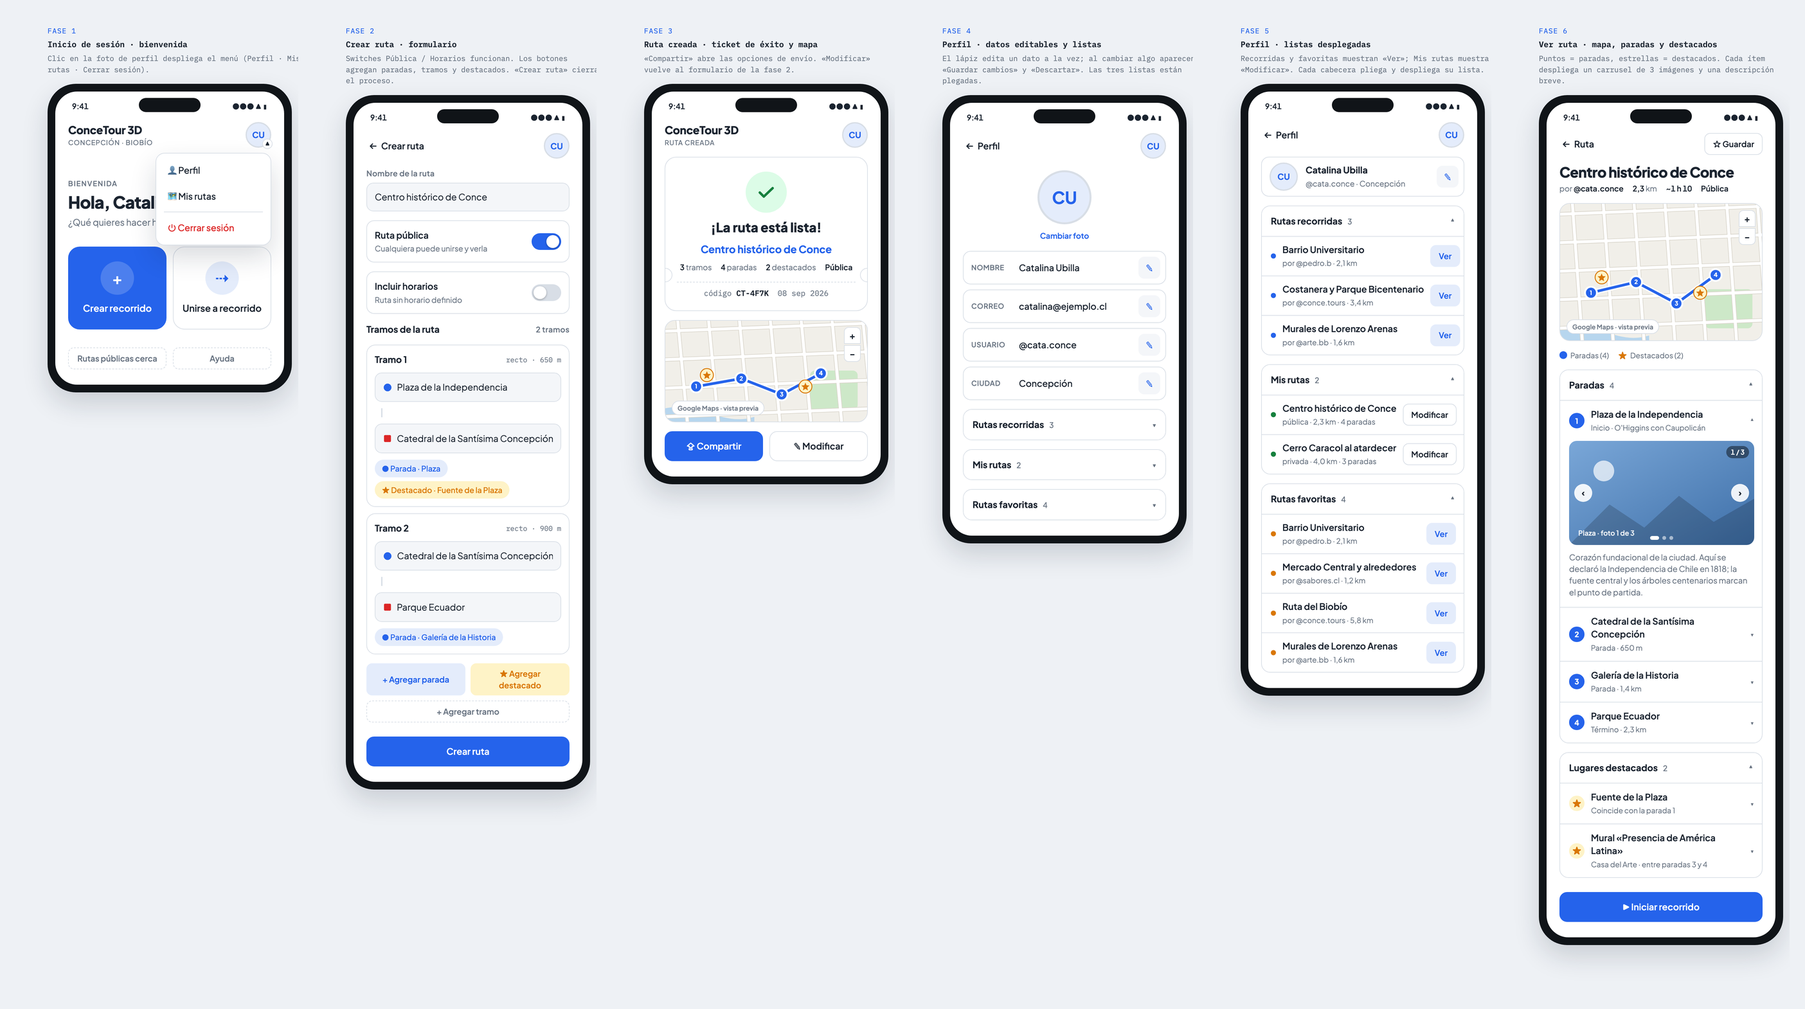
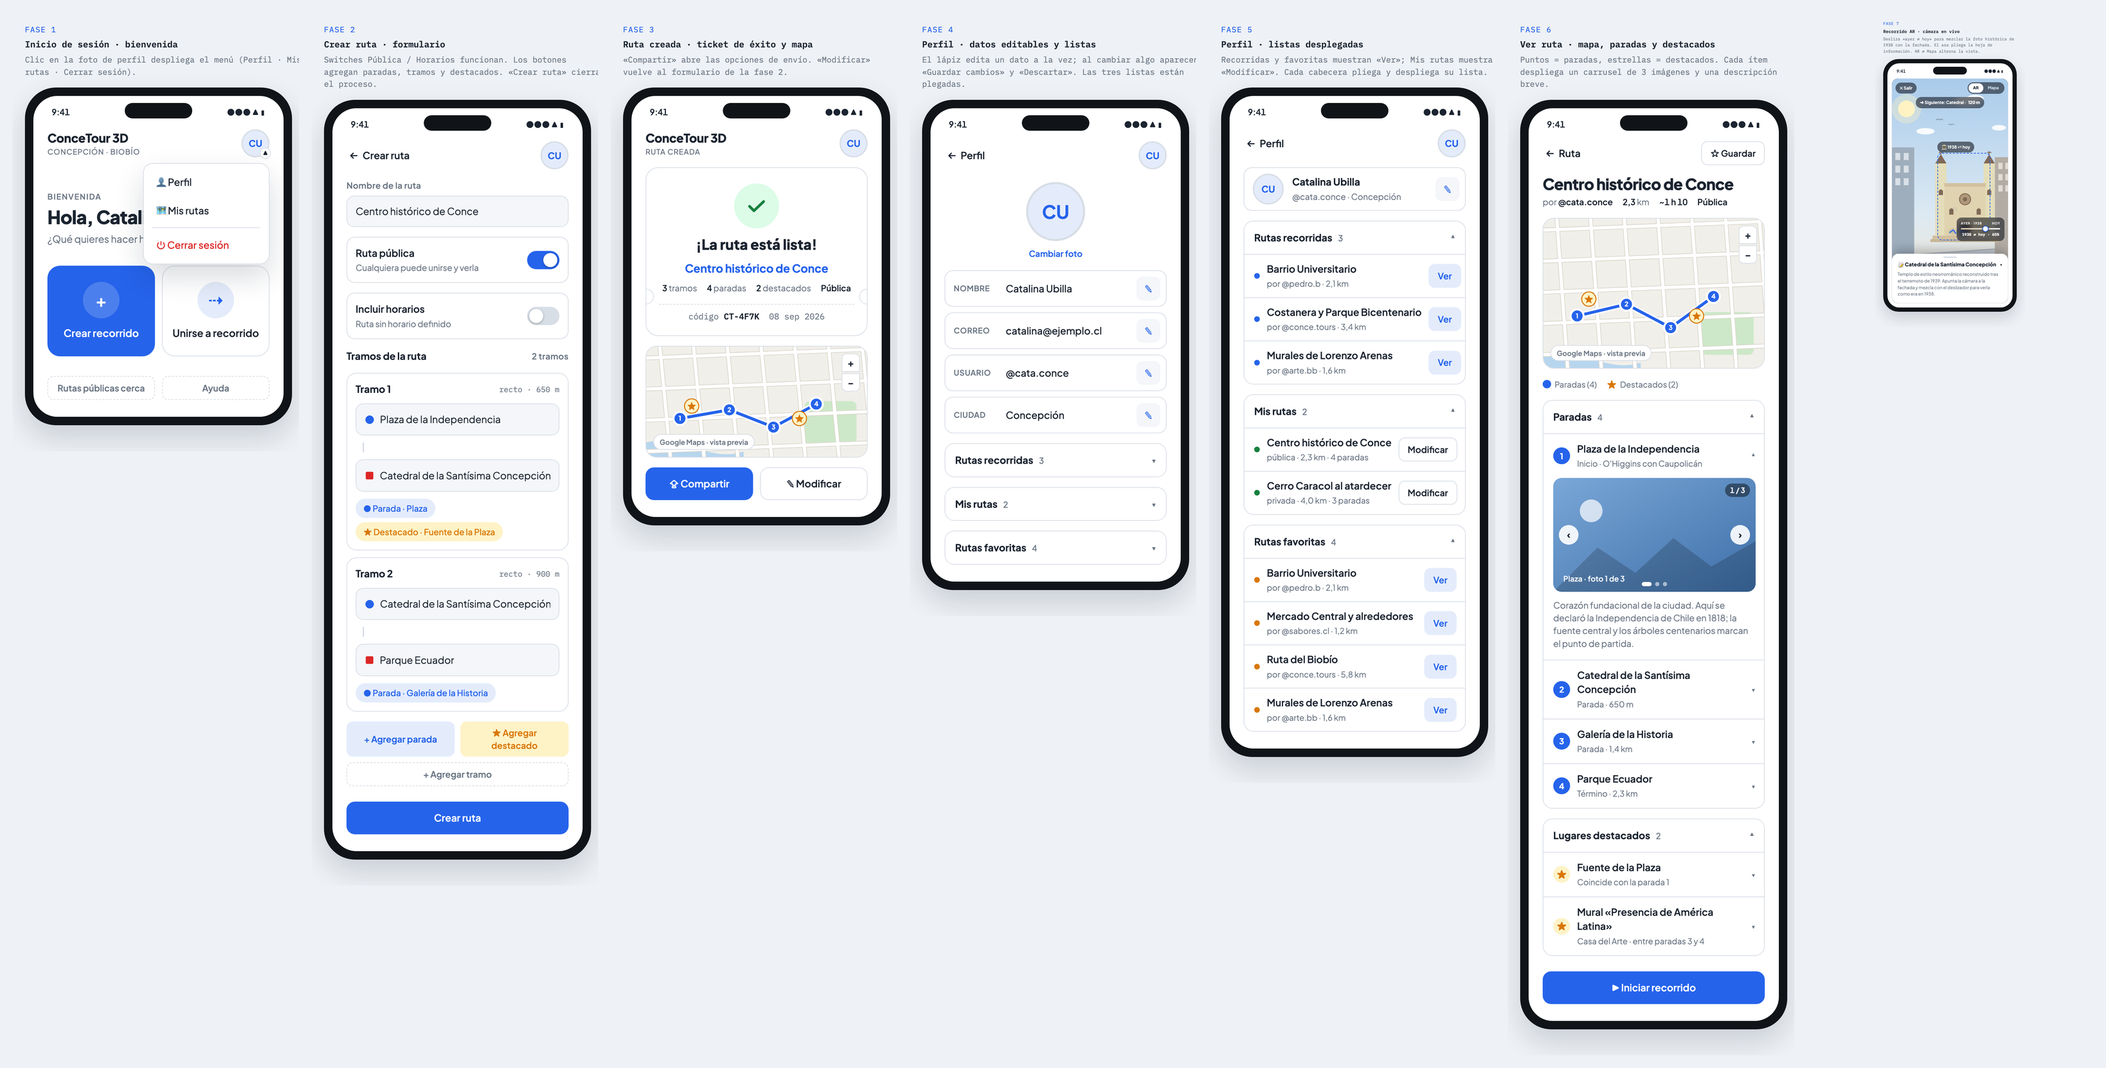
Agregar fase 7 de recorrido AR al mockup: cámara simulada, flechas, hoja plegable y modo ayer/hoy

Changed region(s): [[0.0, 0.0312, 0.9915, 0.9675]]

diff --git a/mockups/conceTour3D-fases.html b/mockups/conceTour3D-fases.html
@@ -284,6 +284,48 @@ h2.title{font-size:26px;font-weight:800;letter-spacing:-.02em;line-height:1.15}
 .car .dots i.on{background:#fff;width:14px;border-radius:3px}
 .car .cnt{position:absolute;top:8px;right:8px;font-size:10.5px;font-weight:600;background:rgba(0,0,0,.45);color:#fff;padding:2px 7px;border-radius:999px;font-variant-numeric:tabular-nums}
 .sticky-cta{position:sticky;bottom:0;padding-top:8px;background:linear-gradient(to top,var(--surface) 70%,transparent)}
+
+/* ---------- fase 7 · recorrido AR ---------- */
+.ar{position:relative;height:640px;border-radius:18px;overflow:hidden;background:#0e141b;border:1px solid var(--line)}
+.ar .scene{position:absolute;inset:0}
+.ar .scene svg{width:100%;height:100%;display:block}
+.ar .hist{filter:sepia(.95) contrast(.92) brightness(.94) saturate(.75);opacity:.65;transition:opacity .15s}
+.ar .hud{position:absolute;top:10px;left:10px;right:10px;display:flex;justify-content:space-between;align-items:center;gap:8px;z-index:3}
+.ar .pill{display:inline-flex;align-items:center;gap:6px;background:rgba(14,18,25,.58);color:#fff;border:0;border-radius:999px;padding:7px 12px;font-size:12px;font-weight:600;backdrop-filter:blur(6px);white-space:nowrap}
+.ar button.pill{cursor:pointer}
+.ar .pill b{font-weight:800}
+.ar .seg{display:inline-flex;background:rgba(14,18,25,.58);border-radius:999px;padding:3px;backdrop-filter:blur(6px)}
+.ar .seg button{border:0;background:transparent;color:#cbd5e1;border-radius:999px;padding:5px 13px;font-size:11.5px;font-weight:700}
+.ar .seg button.on{background:#fff;color:#10151c}
+.ar .next{position:absolute;top:52px;left:50%;transform:translateX(-50%);z-index:3}
+.ar .focus{position:absolute;left:39%;top:33%;width:46%;height:39%;border:2px dashed var(--accent);border-radius:14px;z-index:2;animation:focuspulse 2.6s ease-in-out infinite}
+@keyframes focuspulse{0%,100%{box-shadow:0 0 0 0 rgba(255,255,255,0)}50%{box-shadow:0 0 0 5px rgba(255,255,255,.14)}}
+.ar .tag-b{position:absolute;left:39%;top:calc(33% - 32px);z-index:3}
+.ar .ping{position:absolute;left:61%;top:68%;width:12px;height:12px;margin:-6px;border-radius:50%;background:var(--accent);z-index:2}
+.ar .ping::after{content:"";position:absolute;inset:-4px;border-radius:50%;border:2px solid var(--accent);animation:ping 1.8s ease-out infinite}
+@keyframes ping{0%{transform:scale(.6);opacity:.9}100%{transform:scale(2.8);opacity:0}}
+.ar .arrows{position:absolute;inset:0;z-index:2;pointer-events:none}
+.ar .arrows i{position:absolute;width:18px;height:18px;border-left:4px solid var(--accent);border-top:4px solid var(--accent);border-radius:3px;transform:rotate(52deg);filter:drop-shadow(0 2px 6px rgba(0,0,0,.4));opacity:0;animation:march 1.8s linear infinite}
+.ar .arrows i:nth-child(1){left:48%;bottom:30%;animation-delay:0s}
+.ar .arrows i:nth-child(2){left:51%;bottom:40%;animation-delay:.6s}
+.ar .arrows i:nth-child(3){left:54%;bottom:50%;animation-delay:1.2s}
+@keyframes march{0%{opacity:0;transform:rotate(52deg) translate(0,0) scale(.8)}30%{opacity:1}100%{opacity:0;transform:rotate(52deg) translate(12px,-12px) scale(1.05)}}
+.ar .mixctl{position:absolute;right:10px;bottom:176px;z-index:4;background:rgba(14,18,25,.58);backdrop-filter:blur(6px);border-radius:14px;padding:10px 12px;display:grid;gap:7px;width:136px;color:#fff}
+.ar .mixctl .lab{font-size:9.5px;font-weight:700;letter-spacing:.07em;display:flex;justify-content:space-between;opacity:.85}
+.ar .mixctl output{font-family:"IBM Plex Mono",monospace;font-size:11px;font-weight:600;text-align:center}
+.ar input[type=range]{-webkit-appearance:none;appearance:none;width:100%;height:4px;border-radius:2px;background:linear-gradient(90deg,#D9C7A7,#F2F5F8);outline:none;margin:0}
+.ar input[type=range]::-webkit-slider-thumb{-webkit-appearance:none;appearance:none;width:18px;height:18px;border-radius:50%;background:#fff;border:2.5px solid var(--accent);box-shadow:0 1px 5px rgba(0,0,0,.45);cursor:pointer}
+.ar .map{position:absolute;inset:10px;z-index:4;border-radius:14px;box-shadow:var(--shadow)}
+.ar .map[hidden]{display:none}
+.ar .sheet-ar{position:absolute;left:0;right:0;bottom:0;z-index:5;background:var(--surface);border-radius:18px 18px 0 0;box-shadow:0 -10px 30px rgba(10,15,25,.28);padding:6px 16px 16px;transition:transform .25s}
+.ar .sheet-ar.folded{transform:translateY(calc(100% - 56px))}
+.ar .sheet-grip{width:100%;background:none;border:0;display:grid;justify-items:center;gap:6px;padding:2px 0 8px;cursor:pointer}
+.ar .sheet-grip i{width:38px;height:4px;border-radius:2px;background:var(--line)}
+.ar .sheet-ar h3{font-size:14.5px;font-weight:800;display:flex;align-items:center;gap:8px;margin:0}
+.ar .sheet-ar .chev{margin-left:auto;transition:transform .2s}
+.ar .sheet-ar.folded .chev{transform:rotate(180deg)}
+.ar .sheet-ar p{margin:8px 0 0;font-size:12.5px;color:var(--muted);line-height:1.5}
+
 .toast{position:absolute;left:50%;bottom:28px;transform:translate(-50%,10px);background:var(--ink);color:var(--surface);padding:9px 14px;border-radius:999px;font-size:12.5px;font-weight:600;opacity:0;pointer-events:none;transition:.25s;white-space:nowrap;z-index:9}
 .toast.show{opacity:1;transform:translate(-50%,0)}
 @media (prefers-reduced-motion:reduce){*{transition:none!important}}
@@ -292,8 +334,8 @@ h2.title{font-size:26px;font-weight:800;letter-spacing:-.02em;line-height:1.15}
 <div class="sheet">
   <header class="sheet-head">
     <div>
-      <h1>ConceTour 3D · flujo en 6 fases</h1>
-      <p class="sub">Mockups interactivos derivados del boceto. Cada teléfono funciona por separado: menús, switches, listas desplegables y carruseles responden al clic. Los colores son estándar y viven en un solo bloque de variables para probar las paletas después.</p>
+      <h1>ConceTour 3D · flujo en 7 fases</h1>
+      <p class="sub">Mockups interactivos derivados del boceto. Cada teléfono funciona por separado: menús, switches, listas desplegables y carruseles responden al clic; la fase 7 simula el recorrido en realidad aumentada (deslizador «ayer ⇄ hoy», hoja de información plegable y cambio AR ⇄ Mapa). Los colores son estándar y viven en un solo bloque de variables para probar las paletas después.</p>
     </div>
     <div style="display:grid;gap:14px">
       <div class="palettes">
@@ -584,6 +626,84 @@ h2.title{font-size:26px;font-weight:800;letter-spacing:-.02em;line-height:1.15}
     </div></div>
   </section>
 
+  <!-- ============ FASE 7 · RECORRIDO AR ============ -->
+  <section class="fase" data-fase="7">
+    <div class="cap"><span class="num">Fase 7</span><b>Recorrido AR · cámara en vivo</b><span class="hint">Desliza «ayer ⇄ hoy» para mezclar la foto histórica de 1938 con la fachada. El asa pliega la hoja de información. AR ⇄ Mapa alterna la vista.</span></div>
+    <div class="phone"><div class="screen">
+      <div class="status"><span>9:41</span><span class="pill"></span><span>●●● ▲ ▮</span></div>
+      <div class="body" style="padding:12px">
+        <div class="ar" data-ar>
+          <div class="scene" aria-hidden="true">
+          <svg viewBox="0 0 380 640" xmlns="http://www.w3.org/2000/svg" preserveAspectRatio="xMidYMid slice">
+            <defs><linearGradient id="sky7" x1="0" y1="0" x2="0" y2="1"><stop offset="0" stop-color="#A9CBEB"/><stop offset=".6" stop-color="#DCE9F3"/><stop offset="1" stop-color="#F6E9CF"/></linearGradient></defs>
+            <rect width="380" height="640" fill="url(#sky7)"/>
+            <circle cx="66" cy="86" r="42" fill="#FFF3C4" opacity=".35"/><circle cx="66" cy="86" r="24" fill="#FFF3C4"/>
+            <g fill="#fff" opacity=".9"><ellipse cx="238" cy="64" rx="36" ry="12"/><ellipse cx="262" cy="56" rx="24" ry="10"/><ellipse cx="120" cy="150" rx="26" ry="9"/><ellipse cx="330" cy="140" rx="20" ry="8"/></g>
+            <g stroke="#5B6B7C" stroke-width="1.6" fill="none" opacity=".7"><path d="M150 118 q5 -6 10 0 q5 -6 10 0"/><path d="M186 132 q4 -5 8 0 q4 -5 8 0"/></g>
+            <g opacity=".85"><rect x="6" y="252" width="34" height="66" fill="#C3CCD4"/><rect x="44" y="236" width="30" height="82" fill="#B9C4CE"/><rect x="300" y="244" width="34" height="74" fill="#C3CCD4"/><rect x="338" y="258" width="36" height="60" fill="#B9C4CE"/></g>
+            <path d="M0 640 L0 508 L380 482 L380 640 Z" fill="#C9CDD3"/>
+            <path d="M0 508 L380 482" stroke="#AEB4BB" stroke-width="3" fill="none"/>
+            <g fill="#fff" opacity=".65"><rect x="150" y="556" width="110" height="7" rx="3"/><rect x="158" y="572" width="110" height="7" rx="3"/><rect x="166" y="588" width="110" height="7" rx="3"/></g>
+            <g><rect x="30" y="470" width="6" height="34" fill="#8A6B4A"/><circle cx="33" cy="462" r="20" fill="#7FA36B"/><circle cx="22" cy="472" r="13" fill="#93B27C"/></g>
+            <g><rect x="346" y="462" width="6" height="36" fill="#8A6B4A"/><circle cx="349" cy="454" r="19" fill="#7FA36B"/><circle cx="360" cy="466" r="12" fill="#93B27C"/></g>
+            <rect x="0" y="196" width="88" height="322" fill="#9FAEBC"/>
+            <g fill="#E8EDF2" opacity=".8"><rect x="10" y="212" width="14" height="20"/><rect x="34" y="212" width="14" height="20"/><rect x="58" y="212" width="14" height="20"/><rect x="10" y="248" width="14" height="20"/><rect x="34" y="248" width="14" height="20"/><rect x="58" y="248" width="14" height="20"/><rect x="10" y="284" width="14" height="20"/><rect x="34" y="284" width="14" height="20"/><rect x="58" y="284" width="14" height="20"/></g>
+            <rect x="318" y="224" width="62" height="294" fill="#B3ACA4"/>
+            <g fill="#EFE9E2" opacity=".8"><rect x="328" y="240" width="12" height="18"/><rect x="348" y="240" width="12" height="18"/><rect x="328" y="272" width="12" height="18"/><rect x="348" y="272" width="12" height="18"/><rect x="328" y="304" width="12" height="18"/><rect x="348" y="304" width="12" height="18"/></g>
+            <!-- Catedral · hoy -->
+            <g transform="translate(148,212)">
+              <polygon points="0,30 16,4 32,30" fill="#8A5A44"/><polygon points="138,30 154,4 170,30" fill="#8A5A44"/>
+              <path d="M16 4 v-9 M10 -1.5 h12 M154 4 v-9 M148 -1.5 h12" stroke="#8A5A44" stroke-width="2.4" fill="none"/>
+              <rect x="0" y="30" width="32" height="206" fill="#E3D3B3"/><rect x="138" y="30" width="32" height="206" fill="#E3D3B3"/>
+              <rect x="26" y="86" width="118" height="150" fill="#DCC9A5"/><rect x="26" y="86" width="118" height="10" fill="#C9B78F"/>
+              <circle cx="85" cy="132" r="16" fill="#B08D5F"/><circle cx="85" cy="132" r="16" fill="none" stroke="#8A5A44" stroke-width="2.5"/><circle cx="85" cy="132" r="6" fill="#8A5A44"/>
+              <path d="M69 236 L69 202 Q85 188 101 202 L101 236 Z" fill="#7A5238"/>
+              <g fill="#8A5A44"><path d="M40 176 v-14 q6 -8 12 0 v14 Z"/><path d="M118 176 v-14 q6 -8 12 0 v14 Z"/><path d="M10 120 v-12 q6 -8 12 0 v12 Z"/><path d="M148 120 v-12 q6 -8 12 0 v12 Z"/></g>
+              <rect x="-8" y="236" width="186" height="10" rx="2" fill="#C9B78F"/><rect x="-14" y="246" width="198" height="8" rx="2" fill="#BFAE8A"/>
+            </g>
+            <!-- Catedral · fotografía histórica (1938) -->
+            <g class="hist" transform="translate(148,212)">
+              <polygon points="0,30 16,4 32,30" fill="#8A5A44"/><polygon points="138,30 154,4 170,30" fill="#8A5A44"/>
+              <path d="M16 4 v-9 M10 -1.5 h12 M154 4 v-9 M148 -1.5 h12" stroke="#8A5A44" stroke-width="2.4" fill="none"/>
+              <rect x="0" y="30" width="32" height="206" fill="#E3D3B3"/><rect x="138" y="30" width="32" height="206" fill="#E3D3B3"/>
+              <rect x="26" y="86" width="118" height="150" fill="#DCC9A5"/><rect x="26" y="86" width="118" height="10" fill="#C9B78F"/>
+              <circle cx="85" cy="132" r="16" fill="#B08D5F"/><circle cx="85" cy="132" r="16" fill="none" stroke="#8A5A44" stroke-width="2.5"/><circle cx="85" cy="132" r="6" fill="#8A5A44"/>
+              <path d="M69 236 L69 202 Q85 188 101 202 L101 236 Z" fill="#7A5238"/>
+              <g fill="#8A5A44"><path d="M40 176 v-14 q6 -8 12 0 v14 Z"/><path d="M118 176 v-14 q6 -8 12 0 v14 Z"/><path d="M10 120 v-12 q6 -8 12 0 v12 Z"/><path d="M148 120 v-12 q6 -8 12 0 v12 Z"/></g>
+              <rect x="-8" y="236" width="186" height="10" rx="2" fill="#C9B78F"/><rect x="-14" y="246" width="198" height="8" rx="2" fill="#BFAE8A"/>
+            </g>
+            <!-- personas en la calle -->
+            <g><circle cx="90" cy="540" r="6" fill="#4A5560"/><rect x="84" y="546" width="12" height="20" rx="5" fill="#4A5560"/></g>
+            <g><circle cx="112" cy="548" r="6" fill="#7A5A4A"/><rect x="106" y="554" width="12" height="20" rx="5" fill="#7A5A4A"/><rect x="104" y="556" width="5" height="12" rx="2" fill="#D97706"/></g>
+            <g><circle cx="286" cy="534" r="6" fill="#55606C"/><rect x="280" y="540" width="12" height="20" rx="5" fill="#55606C"/></g>
+          </svg>
+          </div>
+          <div class="focus"></div>
+          <span class="pill tag-b">🏛 1938 ⇄ hoy</span>
+          <div class="ping"></div>
+          <div class="arrows"><i></i><i></i><i></i></div>
+          <div class="hud">
+            <button class="pill" data-toast="Recorrido pausado">✕ Salir</button>
+            <div class="seg" role="group" aria-label="Vista del recorrido"><button class="on" data-view="ar">AR</button><button data-view="map">Mapa</button></div>
+          </div>
+          <div class="next"><span class="pill">➜ Siguiente: Catedral · <b>120 m</b></span></div>
+          <div class="map" data-map="s" hidden></div>
+          <div class="mixctl">
+            <div class="lab"><span>AYER · 1938</span><span>HOY</span></div>
+            <input type="range" min="0" max="100" value="65" aria-label="Mezcla entre fotografía histórica y vista actual">
+            <output data-mix-val>1938 ⇄ hoy</output>
+          </div>
+          <div class="sheet-ar">
+            <button class="sheet-grip" aria-expanded="false" aria-label="Plegar o desplegar información"><i></i></button>
+            <h3>📝 Catedral de la Santísima Concepción <span class="chev">▾</span></h3>
+            <p>Templo de estilo neorrománico reconstruido tras el terremoto de 1939. Apunta la cámara a la fachada y mezcla con el deslizador para verla como era en 1938.</p>
+          </div>
+        </div>
+      </div>
+      <div class="toast">Recorrido pausado</div>
+    </div></div>
+  </section>
+
   </main>
 </div>
 
@@ -746,6 +866,19 @@ h2.title{font-size:26px;font-weight:800;letter-spacing:-.02em;line-height:1.15}
     }
     bar.querySelector('[data-act="save"]').addEventListener('click',function(){ finish(true); toast(bar,'Cambios guardados'); });
     bar.querySelector('[data-act="discard"]').addEventListener('click',function(){ finish(false); });
+  });
+
+  /* ---------- fase 7 · recorrido AR ---------- */
+  document.querySelectorAll('[data-ar]').forEach(function(ar){
+    var hist=ar.querySelector('.hist'), rng=ar.querySelector('input[type=range]'), out=ar.querySelector('[data-mix-val]');
+    if(rng){
+      var apply=function(){ var v=+rng.value; if(hist) hist.style.opacity=v/100; if(out) out.textContent = v<12 ? 'Hoy' : (v>88 ? '1938' : '1938 ⇄ hoy · '+v+'%'); };
+      rng.addEventListener('input',apply); apply();
+    }
+    var sheet=ar.querySelector('.sheet-ar');
+    if(sheet){ sheet.querySelector('.sheet-grip').addEventListener('click',function(){ sheet.classList.toggle('folded'); }); }
+    var seg=ar.querySelectorAll('.seg button'), mapv=ar.querySelector('.map');
+    seg.forEach(function(b){ b.addEventListener('click',function(){ seg.forEach(function(x){ x.classList.toggle('on',x===b); }); if(mapv) mapv.hidden = b.dataset.view!=='map'; }); });
   });
 
   /* ---------- toasts ---------- */

diff --git a/README.md b/README.md
@@ -2,7 +2,7 @@
 
 **ConceTour 3D** es una aplicación móvil de **realidad aumentada** para crear, compartir y recorrer rutas turísticas a pie por Concepción (Región del Biobío, Chile). Al iniciar un recorrido, la pantalla se convierte en una vista de cámara en vivo: **flechas en tiempo real** guían hacia la siguiente parada, la **información de cada lugar** aparece en un recuadro desplegable, y en los **edificios históricos** la imagen antigua se superpone a la fachada real como si el pasado se viera en tiempo real.
 
-Este repositorio contiene la documentación de diseño del proyecto: el mockup interactivo del flujo, la especificación de realidad aumentada, el sistema de paletas de color y la tipografía.
+Este repositorio contiene la documentación de diseño del proyecto: el mockup interactivo del flujo completo (7 fases), la especificación de realidad aumentada, el sistema de paletas de color y la tipografía.
 
 > Estado del proyecto: **diseño / prototipado** — aún no existe implementación de la app; el material aquí publicado es la base sobre la cual se construirá.
 
@@ -12,7 +12,7 @@ Este repositorio contiene la documentación de diseño del proyecto: el mockup i
 
 ## Galería
 
-Las cinco paletas del sistema sobre el flujo completo en 6 fases. En el sitio puedes cambiarlas en vivo con el selector o con `?paleta=…` en la URL.
+Las cinco paletas del sistema sobre el flujo completo en 7 fases. En el sitio puedes cambiarlas en vivo con el selector o con `?paleta=…` en la URL.
 
 | Estándar | Atardecer |
 |----------|-----------|
@@ -46,7 +46,7 @@ La especificación completa de la experiencia AR está en [docs/realidad-aumenta
 
 ## Flujo de diseño: 7 fases
 
-Las fases 1 a 6 están prototipadas en el mockup interactivo; la fase 7 está especificada en documentos.
+Las siete fases están prototipadas en el mockup interactivo; la fase 7 usa una escena de cámara simulada en SVG.
 
 | Fase | Pantalla | Descripción |
 |------|----------|-------------|
@@ -56,7 +56,7 @@ Las fases 1 a 6 están prototipadas en el mockup interactivo; la fase 7 está es
 | 4 | [Perfil](docs/flujo-de-fases.md#fase-4--perfil) | Datos editables y listas plegadas (recorridas, propias, favoritas) |
 | 5 | [Perfil · listas desplegadas](docs/flujo-de-fases.md#fase-5--perfil-con-listas-desplegadas) | Las tres listas del perfil abiertas |
 | 6 | [Ver ruta](docs/flujo-de-fases.md#fase-6--ver-ruta) | Mapa con paradas y destacados, cada uno con carrusel de 3 imágenes; CTA «Iniciar recorrido» |
-| 7 | [Recorrido AR](docs/flujo-de-fases.md#fase-7--recorrido-ar-especificada-sin-mockup-aún) *(sin mockup aún)* | Cámara en vivo con flechas de navegación, recuadros de información y superposición histórica |
+| 7 | [Recorrido AR](docs/flujo-de-fases.md#fase-7--recorrido-ar) | Cámara en vivo simulada: flechas de navegación, hoja de información plegable, deslizador «ayer ⇄ hoy» y alternancia AR ⇄ Mapa |
 
 ## Sistema de diseño
 
@@ -72,7 +72,7 @@ Abre el archivo directamente en un navegador:
 open mockups/conceTour3D-fases.html
 ```
 
-Los seis teléfonos del documento son **interactivos**: los menús, switches, acordeones, botones de agregar paradas/tramos/destacados y los carruseles responden al clic.
+Los siete teléfonos del documento son **interactivos**: menús, switches, acordeones, botones de agregar paradas/tramos/destacados, carruseles y los controles de la fase 7 (deslizador «ayer ⇄ hoy», hoja plegable, selector AR ⇄ Mapa) responden al clic o al gesto.
 
 ### Probar las paletas de color
 
@@ -102,7 +102,7 @@ conceTour3D/
 ├── mockups/
 │   ├── conceTour3D-fases.html     ← mockup interactivo (HTML + CSS + JS, un solo archivo)
 │   └── img/                       ← exportaciones PNG por paleta y fase
-│       ├── estandar/              ← fase-01…fase-06 + lámina completa
+│       ├── estandar/              ← fase-01…fase-07 + lámina completa
 │       ├── atardecer/
 │       ├── bosque/
 │       ├── citrica/
@@ -118,9 +118,9 @@ conceTour3D/
 
 ## Roadmap previsto
 
+- [x] ~~Mockup de la fase 7 (recorrido AR)~~ — hecho: cámara simulada, flechas, hoja plegable y «ayer ⇄ hoy»
 - [ ] Elección de stack con soporte AR: nativo (ARKit iOS / ARCore Android), multiplataforma (Unity AR Foundation, Flutter) o híbrido
 - [ ] Estrategia de anclaje AR: fase 1 GPS + brújula, fase 2 reconocimiento de imagen por fachada
-- [ ] Mockup de la fase 7 (vista cámara: flechas, bottom sheet de info, modo «ayer y hoy»)
 - [ ] UI de carga de contenido en destacados (fase 2): información, imágenes, edificios históricos
 - [ ] Mapa real con cartografía de Concepción (reemplaza el mapa vectorial ilustrado del mockup)
 - [ ] Sistema de cuentas y autenticación

diff --git a/docs/realidad-aumentada.md b/docs/realidad-aumentada.md
@@ -89,6 +89,6 @@ Nuevas decisiones técnicas que la AR agrega antes de implementar:
 
 - [ ] Elección de stack con soporte AR: **nativo** (ARKit iOS / ARCore Android), **multiplataforma** (Unity AR Foundation, Flutter con plugins AR) o híbrido
 - [ ] Estrategia de anclaje: fase 1 GPS+brújula, fase 2 reconocimiento de imagen por fachada
-- [ ] Diseño de la pantalla de recorrido AR (fase 7 del flujo — aún sin mockup)
+- [x] ~~Diseño de la pantalla de recorrido AR~~ — **hecho**: fase 7 del mockup con vista cámara, flechas, hoja de información plegable, alternancia AR ⇄ Mapa y deslizador «ayer ⇄ hoy»
 - [ ] Modelo de datos de destacados: tipo de contenido (info / imagen / edificio histórico), archivos, licencia, foto de referencia
 - [ ] Flujo de permisos y degradación elegante en equipos sin AR
